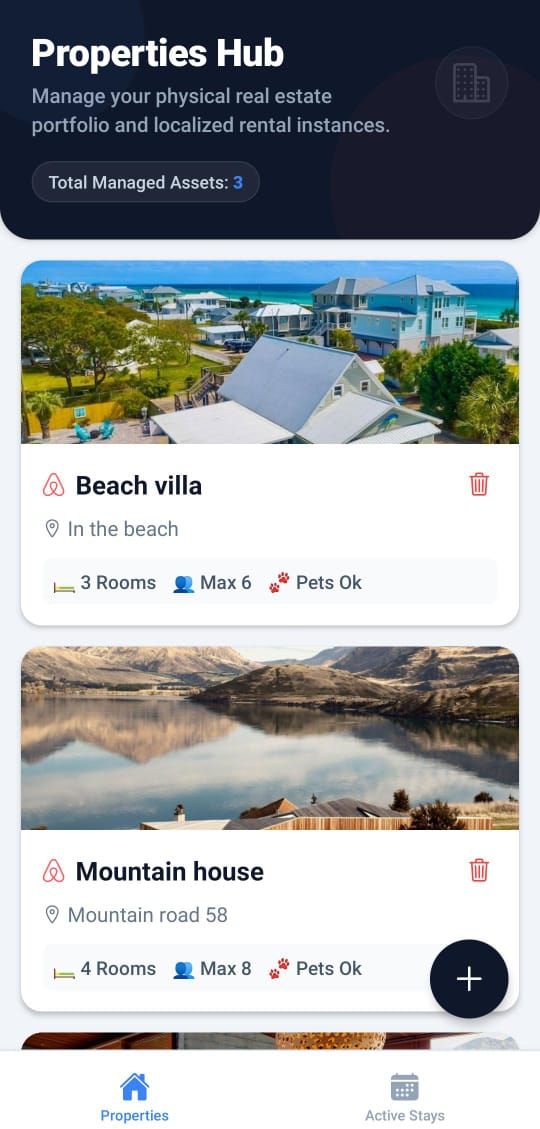
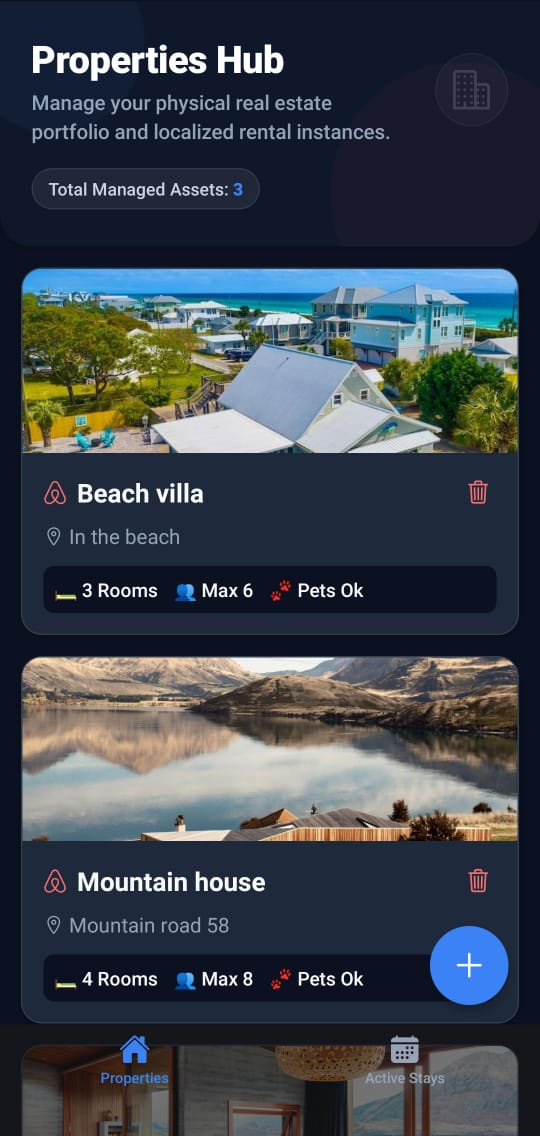
feat: implement batch image uploading and gallery syncing

diff --git a/src/app/properties/[id].tsx b/src/app/properties/[id].tsx
@@ -21,10 +21,8 @@ import { addMedia, deleteMediaRecord, getMediaForProperty, setMainImage } from '
 import { getPropertyById, getStaysForProperty } from '../../database/propertyQueries';
 import { Colors } from '../../theme/colors';
 import { Property, PropertyMedia, Stay } from '../../types';
-import { shareLocalPhoto, sharePropertyText } from '../../utils/whatsappFormatter';
-
-// IMPORT RESTORED: Both cloud functions are correctly imported here
 import { uploadDossierText, uploadToCloud } from '../../utils/cloudSync';
+import { shareLocalPhoto, sharePropertyText } from '../../utils/whatsappFormatter';
 
 const { width } = Dimensions.get('window');
 
@@ -92,20 +90,38 @@ export default function PropertyDetailsScreen() {
   };
 
   const handleCloudShare = async () => {
-    const coverImage = mediaList.find(m => m.isMain) || mediaList[0];
-    
+    if (mediaList.length === 0) {
+      await uploadDossierText(property!, null, []);
+      const webUrl = `https://agentaide-web.vercel.app/property/${propertyId}`;
+      await sharePropertyText(property!, webUrl);
+      return;
+    }
+
     try {
       setIsUploading(true);
-      let cloudUrl = null;
+      let validUrls: string[] = [];
+      let coverUrl: string | null = null;
 
-      if (coverImage) {
-        cloudUrl = await uploadToCloud(coverImage.uri, propertyId);
+      // Loop and upload all images
+      for (const media of mediaList) {
+        const uploadedUrl = await uploadToCloud(media.uri, propertyId);
+        if (uploadedUrl) {
+          validUrls.push(uploadedUrl);
+          if (media.isMain) {
+            coverUrl = uploadedUrl;
+          }
+        }
+      }
+
+      // Fallback if no main image was set
+      if (!coverUrl && validUrls.length > 0) {
+        coverUrl = validUrls[0];
       }
       
-      await uploadDossierText(property!, cloudUrl);
+      // Upload text + all image URLs
+      await uploadDossierText(property!, coverUrl, validUrls);
       
       const webUrl = `https://agentaide-web.vercel.app/property/${propertyId}`;
-      
       await sharePropertyText(property!, webUrl);
 
     } catch (error) {

diff --git a/src/utils/cloudSync.ts b/src/utils/cloudSync.ts
@@ -52,8 +52,11 @@ export async function uploadToCloud(localUri: string, propertyId: number): Promi
   }
 }
 
-// Uploads the property text details to the shared brain
-export async function uploadDossierText(property: Property, coverImageUrl: string | null) {
+export async function uploadDossierText(
+  property: Property, 
+  coverImageUrl: string | null,
+  galleryUrls: string[] = []
+) {
   try {
     const { error } = await supabase
       .from('public_dossiers')
@@ -65,7 +68,8 @@ export async function uploadDossierText(property: Property, coverImageUrl: strin
         rooms_count: property.roomsCount,
         max_guests: property.maxGuests,
         pets_allowed: property.petsAllowed,
-        cover_image_url: coverImageUrl
+        cover_image_url: coverImageUrl,
+        gallery_urls: galleryUrls
       });
 
     if (error) throw error;